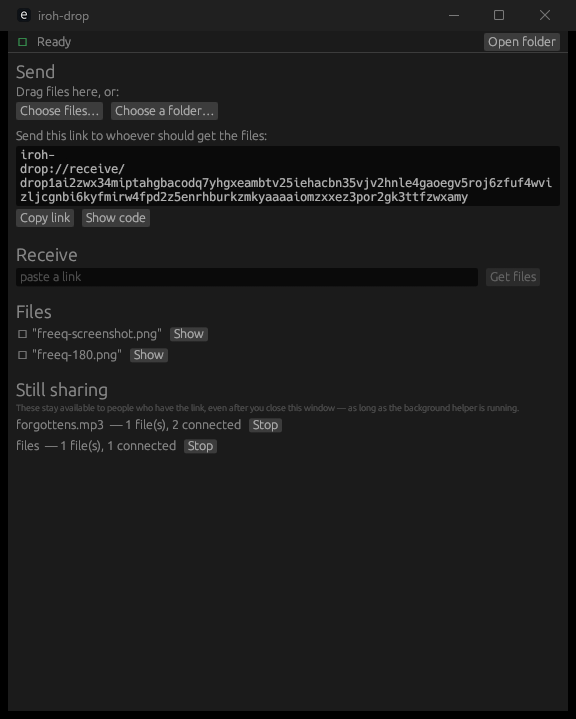
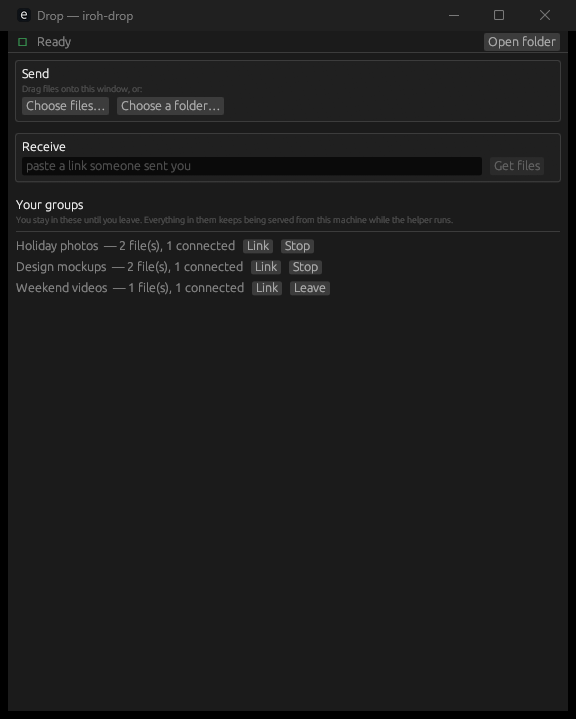
README screenshots: Windows app on v0.1.3
Replace the Windows shots with genuine captures of the v0.1.3 egui build:
framed Send/Receive, the "Your groups" list with per-group Link buttons, the
consent card (Accept / No thanks), and the Ready-to-send share-link panel.
Captured on real Windows 11 against two local daemons (main + friend) over
named pipes.

diff --git a/README.md b/README.md
@@ -32,7 +32,11 @@ macOS (Windows below, same daemon underneath):
 Windows (same daemon underneath):
 
 <p align="center">
-  <img src="docs/screenshots/windows-window.png" width="560" alt="Drop for Windows — sending, receiving, and active shares">
+  <img src="docs/screenshots/windows-window.png" width="560" alt="Drop for Windows — groups and a transfer">
+</p>
+<p align="center">
+  <img src="docs/screenshots/windows-consent.png" width="278" alt="Consent on Windows">
+  <img src="docs/screenshots/windows-share.png" width="278" alt="Share link on Windows">
 </p>
 
 Ask first, always: nothing lands on your disk uninvited, and anything offered
